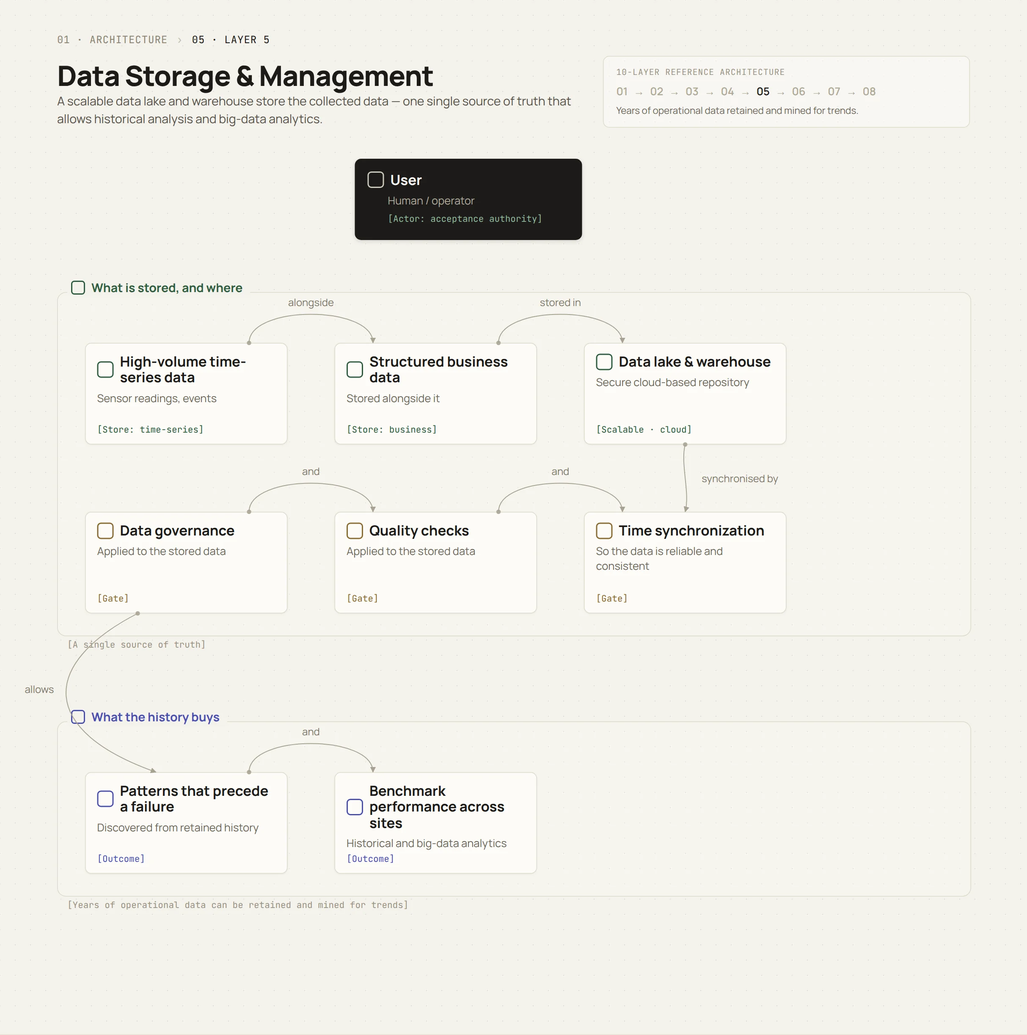
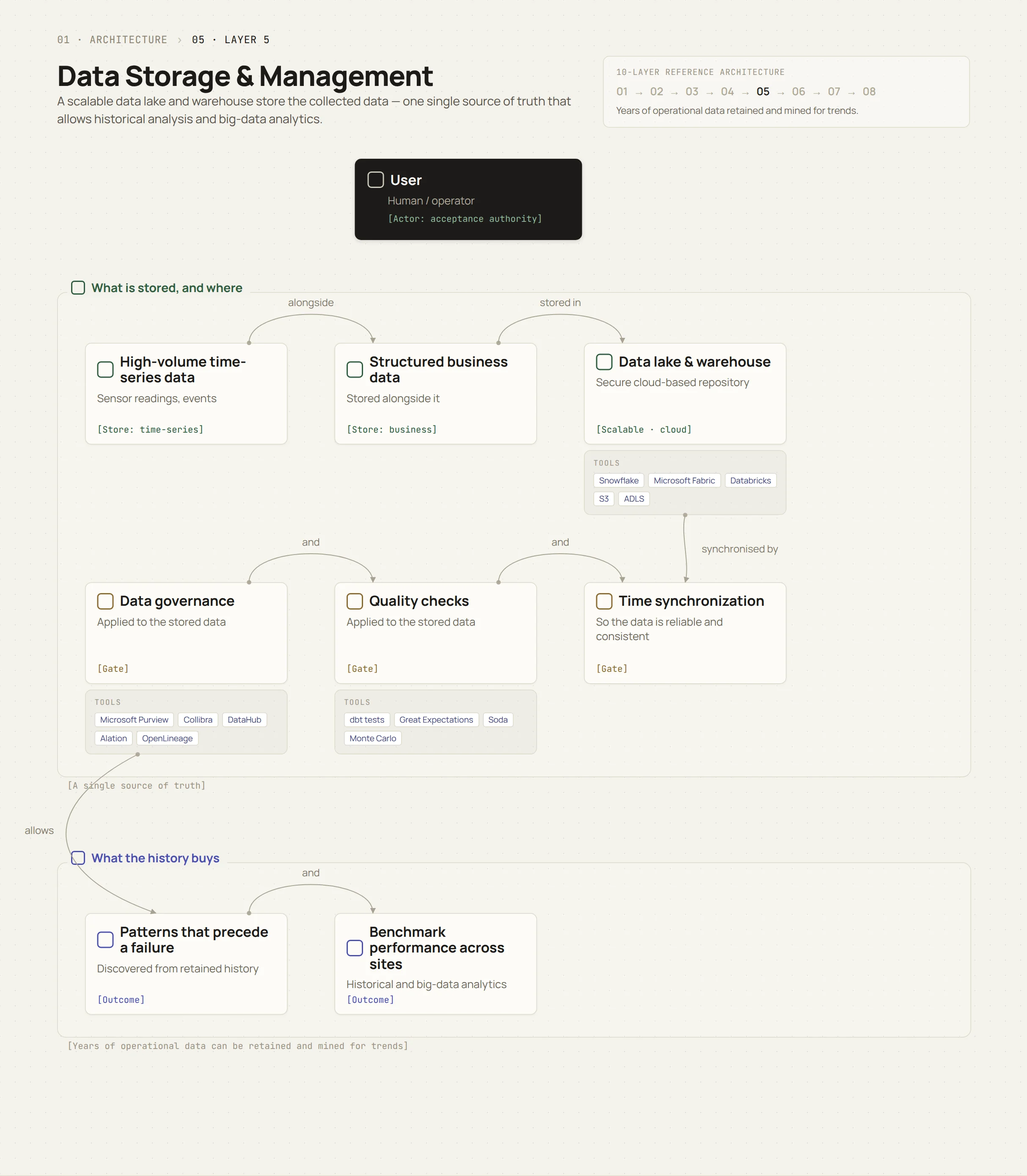
Architecture: name the tools on the ten layers
Fourteen TOOLS strips across layers 1-9, in the component already
approved for the AI Platform drill-downs. Every program name is verbatim
from the ARCHITECTURE OF MEANING master.

Ten of the fourteen are anchored on a term the card and the master row
share verbatim - Sensor, MQTT, OPC UA, SCADA, ingestion, Data lake,
Quality, Dashboards, visualization, Governance, Observability. On the AI
Platform drill-downs only 2 of 40 cards reached that standard, because
those cards run on a different axis; these ten layers are the axis the
master's TOOLS columns were written for.

Layer 10 is left empty: architecture principles, not a capability, and
the master names no program for them. So are the security controls, the
outcome cards and every narrative section.

index.html changes by nine numbers only - the height of the nine figures
that grew. With every height attribute masked, old and new are identical.

Verified: no new connector collision on any layer artboard with the real
fonts loaded, 0 chip overflows, 60/60 responsive checks.

Claude-Session: https://claude.ai/code/session_01H867tEoKbPTPL81FjpucWw

diff --git a/index.html b/index.html
@@ -291,7 +291,7 @@
     
     
     
-  <figure class="dfig"><a href="diagrams/architecture-overview.webp" target="_blank" rel="noopener"><img src="diagrams/architecture-overview.webp" width="2352" height="3404" loading="lazy" decoding="async" alt="A 10-layer — diagram"></a><figcaption>Open full size &#8599;</figcaption></figure><div class="srows"><div class="srow rv has-head"><div class="row-head ordrow" data-ord-head="arch-title"><div class="rnum ord" aria-hidden="true">01</div><h3 class="rtitle">Layer 1 – IoT Edge Devices &amp; Sensors</h3></div><div class="rbody"><p>Industrial-grade sensors, smart meters, and controllers deployed on physical assets form the foundation. These devices continuously capture real-time data (e.g. temperature, vibration, pressure, flow) from equipment and environments, acting as the 'digital eyes and ears' of operations. By instrumenting turbines, pumps, pipelines, trucks and factory machines, we create a rich stream of data at the source that feeds into higher layers.</p></div><figure class="dfig"><a href="diagrams/architecture-01.webp" target="_blank" rel="noopener"><img src="diagrams/architecture-01.webp" width="2427" height="2445" loading="lazy" decoding="async" alt="Layer 1 – IoT Edge Devices — diagram"></a><figcaption>Open full size &#8599;</figcaption></figure></div><div class="srow rv has-head"><div class="row-head ordrow" data-ord-head="arch-title"><div class="rnum ord" aria-hidden="true">02</div><h3 class="rtitle">Layer 2 – Connectivity &amp; Network Infrastructure</h3></div><div class="rbody"><p>A robust communication layer links the edge devices to central systems. We utilize industrial Ethernet on sites, secure wireless links (LTE/5G), and reliable IoT protocols (MQTT, OPC-UA, etc.) to transmit data in real time. This connectivity is designed with built-in encryption and cybersecurity, ensuring data flows securely with minimal latency across widespread facilities.</p></div><figure class="dfig"><a href="diagrams/architecture-02.webp" target="_blank" rel="noopener"><img src="diagrams/architecture-02.webp" width="2427" height="1830" loading="lazy" decoding="async" alt="Layer 2 – Connectivity — diagram"></a><figcaption>Open full size &#8599;</figcaption></figure></div><div class="srow rv has-head"><div class="row-head ordrow" data-ord-head="arch-title"><div class="rnum ord" aria-hidden="true">03</div><h3 class="rtitle">Layer 3 – Edge Computing &amp; Control</h3></div><div class="rbody"><p>At facility sites, edge computing nodes (industrial PCs, PLCs, or gateways) process data locally and interface with control systems. They can filter sensor data, run fast anomaly checks, and execute automatic control logic on the spot. For instance, if a vibration reading spikes beyond a threshold, an edge device can trigger an immediate local alarm or adjustment without waiting for cloud input. This layer augments existing SCADA/DCS controls by adding AI-driven responsiveness on-site, improving safety and reducing latency.</p></div><figure class="dfig"><a href="diagrams/architecture-03.webp" target="_blank" rel="noopener"><img src="diagrams/architecture-03.webp" width="2427" height="2445" loading="lazy" decoding="async" alt="Layer 3 – Edge Computing — diagram"></a><figcaption>Open full size &#8599;</figcaption></figure></div><div class="srow rv has-head"><div class="row-head ordrow" data-ord-head="arch-title"><div class="rnum ord" aria-hidden="true">04</div><h3 class="rtitle">Layer 4 – Data Ingestion &amp; Integration</h3></div><div class="rbody"><p>All field data is funneled into a unified data pipeline. The platform aggregates streams from sensors, edge devices, and existing enterprise systems into a central data repository. We implement high-speed data ingestion with filtering and normalization, so data from disparate sources (legacy databases, IoT feeds, etc.) can be analyzed together. Crucially, we integrate with your existing IT systems – maintenance management, ERP, GIS, and others – via APIs. This means IoT sensor data can be correlated with maintenance logs or weather info, breaking down silos and providing rich context for analysis.</p></div><figure class="dfig"><a href="diagrams/architecture-04.webp" target="_blank" rel="noopener"><img src="diagrams/architecture-04.webp" width="2427" height="2445" loading="lazy" decoding="async" alt="Layer 4 – Data Ingestion — diagram"></a><figcaption>Open full size &#8599;</figcaption></figure></div><div class="srow rv has-head"><div class="row-head ordrow" data-ord-head="arch-title"><div class="rnum ord" aria-hidden="true">05</div><h3 class="rtitle">Layer 5 – Data Storage &amp; Management</h3></div><div class="rbody"><p>A scalable data lake and warehouse store the collected data. High-volume time-series data (sensor readings, events) is stored alongside structured business data in a secure cloud-based repository. This single source of truth allows historical analysis and big-data analytics. We apply data governance, quality checks, and time synchronization to ensure the data is reliable and consistent. Years of operational data can be retained and mined for trends – for example, to discover patterns that precede a failure or to benchmark performance across sites.</p></div><figure class="dfig"><a href="diagrams/architecture-05.webp" target="_blank" rel="noopener"><img src="diagrams/architecture-05.webp" width="2427" height="2445" loading="lazy" decoding="async" alt="Layer 5 – Data Storage — diagram"></a><figcaption>Open full size &#8599;</figcaption></figure></div><div class="srow rv has-head"><div class="row-head ordrow" data-ord-head="arch-title"><div class="rnum ord" aria-hidden="true">06</div><h3 class="rtitle">Layer 6 – Analytics &amp; AI Engine</h3></div><div class="rbody"><p>At the core of the platform is the analytics layer where advanced algorithms turn raw data into actionable insights. We deploy machine learning models, statistical analyses, and AI algorithms to detect anomalies, predict failures, and optimize operations. For example, predictive models analyse sensor trends to indicate developing faults ahead of failure and recommend maintenance before a breakdown occurs; the available lead time varies by asset, instrumentation and failure mechanism. We also use techniques like digital twins (virtual models of assets) to simulate and diagnose complex scenarios. This layer enables the shift from reactive to proactive operations by answering: What is happening? Why? What's likely to happen next?</p></div><figure class="dfig"><a href="diagrams/architecture-06.webp" target="_blank" rel="noopener"><img src="diagrams/architecture-06.webp" width="2427" height="2445" loading="lazy" decoding="async" alt="Layer 6 – Analytics — diagram"></a><figcaption>Open full size &#8599;</figcaption></figure></div><div class="srow rv has-head"><div class="row-head ordrow" data-ord-head="arch-title"><div class="rnum ord" aria-hidden="true">07</div><h3 class="rtitle">Layer 7 – User Interface &amp; Dashboards</h3></div><div class="rbody"><p>All insights are delivered through intuitive dashboards and visualization tools. We provide role-based interfaces for everyone from control room operators to executives. For instance, an operations dashboard might show real-time health scores for assets across all your plants, flagging any equipment in red that needs attention. Managers can see high-level KPIs while engineers can drill into detailed analytics. This ensures information is accessible and actionable at every level of the organization.</p></div><figure class="dfig"><a href="diagrams/architecture-07.webp" target="_blank" rel="noopener"><img src="diagrams/architecture-07.webp" width="2427" height="2046" loading="lazy" decoding="async" alt="Layer 7 – User Interface — diagram"></a><figcaption>Open full size &#8599;</figcaption></figure></div><div class="srow rv has-head"><div class="row-head ordrow" data-ord-head="arch-title"><div class="rnum ord" aria-hidden="true">08</div><h3 class="rtitle">Layer 8 – Automation &amp; Control Feedback</h3></div><div class="rbody"><p>Beyond visual dashboards, the platform can 'close the loop' by proposing optimized control actions and routing them back to equipment through the existing control systems. For example, it can recommend opening a cooling valve or re-routing power load to prevent an overheating condition, presenting the supporting evidence to the operator. High-impact actions require approval by an identified human authority; where a narrow class of low-risk actions is pre-authorised, its boundaries, fail-safes, rollback path and emergency override are agreed in writing beforehand. Human oversight and fail-safes are maintained throughout.</p></div><figure class="dfig"><a href="diagrams/architecture-08.webp" target="_blank" rel="noopener"><img src="diagrams/architecture-08.webp" width="2427" height="1830" loading="lazy" decoding="async" alt="Layer 8 – Automation — diagram"></a><figcaption>Open full size &#8599;</figcaption></figure></div><div class="srow rv has-head"><div class="row-head ordrow" data-ord-head="arch-title"><div class="rnum ord" aria-hidden="true">09</div><h3 class="rtitle">Layer 9 – Security, Governance &amp; Compliance (cross<span class="uh">-</span>cutting plane, Layers 1–8)</h3></div><div class="rbody"><p>Underpinning every layer is a strong focus on cybersecurity and data governance. Industrial infrastructure is mission-critical, so our platform employs robust authentication, encryption, network security monitoring, and anomaly detection to guard against cyber threats. Data governance policies control access to sensitive data, address privacy, and are designed to support the regulatory regime that applies in your sector — electric grid cybersecurity standards or water safety requirements, for example. This plane also covers system health monitoring, so that the behaviour of models and services is observable rather than assumed. SINAIGROUP-AI holds no certification against these standards at this time.</p></div><figure class="dfig"><a href="diagrams/architecture-09.webp" target="_blank" rel="noopener"><img src="diagrams/architecture-09.webp" width="2427" height="2445" loading="lazy" decoding="async" alt="Layer 9 – Security — diagram"></a><figcaption>Open full size &#8599;</figcaption></figure></div><div class="srow rv has-head"><div class="row-head ordrow" data-ord-head="arch-title"><div class="rnum ord" aria-hidden="true">10</div><h3 class="rtitle">Layer 10 – Integrative &amp; Scalable Architecture (cross<span class="uh">-</span>cutting plane, Layers 1–8)</h3></div><div class="rbody"><p>Our multi-layer design is highly integrative and flexible. It can plug into your existing equipment and systems, bridging formerly isolated OT and IT worlds into one cohesive whole. It's built to be cloud-agnostic and modular – running on major cloud providers or on-premises as needed, using containerization and microservices to avoid vendor lock-in. The architecture is designed to scale from a single facility to a nationwide network, and to support multi-cloud deployment for redundancy. In short, these ten blocks are a blueprint for smart infrastructure: eight layers carrying data from connected sensors through to decisions and back to governed action, and two planes that hold across all of them.</p></div><figure class="dfig"><a href="diagrams/architecture-10.webp" target="_blank" rel="noopener"><img src="diagrams/architecture-10.webp" width="2427" height="1830" loading="lazy" decoding="async" alt="Layer 10 – Integrative — diagram"></a><figcaption>Open full size &#8599;</figcaption></figure></div><div class="srow rv is-summary has-head"><div class="row-head ordrow" data-ord-head="arch-title"><div class="rnum ord" aria-hidden="true"></div><h3 class="rtitle">Key Platform Benefits</h3></div><div class="rbody"><p>This layered structure is what makes the architecture modular, interoperable and extensible. It is designed to integrate with legacy and modern systems alike, giving one environment for data and control. It is cloud-agnostic — targeting AWS, Azure, Google Cloud or hybrid on-premises — using containerised microservices for portability and to avoid lock-in. It is designed to scale from a pilot to an enterprise-wide rollout, and to support multi-cloud deployment for failover. Because it is built on open standards, it can be extended as technologies and threats change. This ten-block method is the framework our team applies; where team members have applied comparable methods, those engagements are described, and attributed, in the Team section.</p></div><figure class="dfig"><a href="diagrams/architecture-14.webp" target="_blank" rel="noopener"><img src="diagrams/architecture-14.webp" width="2427" height="2445" loading="lazy" decoding="async" alt="Key Platform Benefits — diagram"></a><figcaption>Open full size &#8599;</figcaption></figure></div></div></div>
+  <figure class="dfig"><a href="diagrams/architecture-overview.webp" target="_blank" rel="noopener"><img src="diagrams/architecture-overview.webp" width="2352" height="3404" loading="lazy" decoding="async" alt="A 10-layer — diagram"></a><figcaption>Open full size &#8599;</figcaption></figure><div class="srows"><div class="srow rv has-head"><div class="row-head ordrow" data-ord-head="arch-title"><div class="rnum ord" aria-hidden="true">01</div><h3 class="rtitle">Layer 1 – IoT Edge Devices &amp; Sensors</h3></div><div class="rbody"><p>Industrial-grade sensors, smart meters, and controllers deployed on physical assets form the foundation. These devices continuously capture real-time data (e.g. temperature, vibration, pressure, flow) from equipment and environments, acting as the 'digital eyes and ears' of operations. By instrumenting turbines, pumps, pipelines, trucks and factory machines, we create a rich stream of data at the source that feeds into higher layers.</p></div><figure class="dfig"><a href="diagrams/architecture-01.webp" target="_blank" rel="noopener"><img src="diagrams/architecture-01.webp" width="2427" height="2568" loading="lazy" decoding="async" alt="Layer 1 – IoT Edge Devices — diagram"></a><figcaption>Open full size &#8599;</figcaption></figure></div><div class="srow rv has-head"><div class="row-head ordrow" data-ord-head="arch-title"><div class="rnum ord" aria-hidden="true">02</div><h3 class="rtitle">Layer 2 – Connectivity &amp; Network Infrastructure</h3></div><div class="rbody"><p>A robust communication layer links the edge devices to central systems. We utilize industrial Ethernet on sites, secure wireless links (LTE/5G), and reliable IoT protocols (MQTT, OPC-UA, etc.) to transmit data in real time. This connectivity is designed with built-in encryption and cybersecurity, ensuring data flows securely with minimal latency across widespread facilities.</p></div><figure class="dfig"><a href="diagrams/architecture-02.webp" target="_blank" rel="noopener"><img src="diagrams/architecture-02.webp" width="2427" height="1953" loading="lazy" decoding="async" alt="Layer 2 – Connectivity — diagram"></a><figcaption>Open full size &#8599;</figcaption></figure></div><div class="srow rv has-head"><div class="row-head ordrow" data-ord-head="arch-title"><div class="rnum ord" aria-hidden="true">03</div><h3 class="rtitle">Layer 3 – Edge Computing &amp; Control</h3></div><div class="rbody"><p>At facility sites, edge computing nodes (industrial PCs, PLCs, or gateways) process data locally and interface with control systems. They can filter sensor data, run fast anomaly checks, and execute automatic control logic on the spot. For instance, if a vibration reading spikes beyond a threshold, an edge device can trigger an immediate local alarm or adjustment without waiting for cloud input. This layer augments existing SCADA/DCS controls by adding AI-driven responsiveness on-site, improving safety and reducing latency.</p></div><figure class="dfig"><a href="diagrams/architecture-03.webp" target="_blank" rel="noopener"><img src="diagrams/architecture-03.webp" width="2427" height="2568" loading="lazy" decoding="async" alt="Layer 3 – Edge Computing — diagram"></a><figcaption>Open full size &#8599;</figcaption></figure></div><div class="srow rv has-head"><div class="row-head ordrow" data-ord-head="arch-title"><div class="rnum ord" aria-hidden="true">04</div><h3 class="rtitle">Layer 4 – Data Ingestion &amp; Integration</h3></div><div class="rbody"><p>All field data is funneled into a unified data pipeline. The platform aggregates streams from sensors, edge devices, and existing enterprise systems into a central data repository. We implement high-speed data ingestion with filtering and normalization, so data from disparate sources (legacy databases, IoT feeds, etc.) can be analyzed together. Crucially, we integrate with your existing IT systems – maintenance management, ERP, GIS, and others – via APIs. This means IoT sensor data can be correlated with maintenance logs or weather info, breaking down silos and providing rich context for analysis.</p></div><figure class="dfig"><a href="diagrams/architecture-04.webp" target="_blank" rel="noopener"><img src="diagrams/architecture-04.webp" width="2427" height="2612" loading="lazy" decoding="async" alt="Layer 4 – Data Ingestion — diagram"></a><figcaption>Open full size &#8599;</figcaption></figure></div><div class="srow rv has-head"><div class="row-head ordrow" data-ord-head="arch-title"><div class="rnum ord" aria-hidden="true">05</div><h3 class="rtitle">Layer 5 – Data Storage &amp; Management</h3></div><div class="rbody"><p>A scalable data lake and warehouse store the collected data. High-volume time-series data (sensor readings, events) is stored alongside structured business data in a secure cloud-based repository. This single source of truth allows historical analysis and big-data analytics. We apply data governance, quality checks, and time synchronization to ensure the data is reliable and consistent. Years of operational data can be retained and mined for trends – for example, to discover patterns that precede a failure or to benchmark performance across sites.</p></div><figure class="dfig"><a href="diagrams/architecture-05.webp" target="_blank" rel="noopener"><img src="diagrams/architecture-05.webp" width="2427" height="2778" loading="lazy" decoding="async" alt="Layer 5 – Data Storage — diagram"></a><figcaption>Open full size &#8599;</figcaption></figure></div><div class="srow rv has-head"><div class="row-head ordrow" data-ord-head="arch-title"><div class="rnum ord" aria-hidden="true">06</div><h3 class="rtitle">Layer 6 – Analytics &amp; AI Engine</h3></div><div class="rbody"><p>At the core of the platform is the analytics layer where advanced algorithms turn raw data into actionable insights. We deploy machine learning models, statistical analyses, and AI algorithms to detect anomalies, predict failures, and optimize operations. For example, predictive models analyse sensor trends to indicate developing faults ahead of failure and recommend maintenance before a breakdown occurs; the available lead time varies by asset, instrumentation and failure mechanism. We also use techniques like digital twins (virtual models of assets) to simulate and diagnose complex scenarios. This layer enables the shift from reactive to proactive operations by answering: What is happening? Why? What's likely to happen next?</p></div><figure class="dfig"><a href="diagrams/architecture-06.webp" target="_blank" rel="noopener"><img src="diagrams/architecture-06.webp" width="2427" height="2612" loading="lazy" decoding="async" alt="Layer 6 – Analytics — diagram"></a><figcaption>Open full size &#8599;</figcaption></figure></div><div class="srow rv has-head"><div class="row-head ordrow" data-ord-head="arch-title"><div class="rnum ord" aria-hidden="true">07</div><h3 class="rtitle">Layer 7 – User Interface &amp; Dashboards</h3></div><div class="rbody"><p>All insights are delivered through intuitive dashboards and visualization tools. We provide role-based interfaces for everyone from control room operators to executives. For instance, an operations dashboard might show real-time health scores for assets across all your plants, flagging any equipment in red that needs attention. Managers can see high-level KPIs while engineers can drill into detailed analytics. This ensures information is accessible and actionable at every level of the organization.</p></div><figure class="dfig"><a href="diagrams/architecture-07.webp" target="_blank" rel="noopener"><img src="diagrams/architecture-07.webp" width="2427" height="2213" loading="lazy" decoding="async" alt="Layer 7 – User Interface — diagram"></a><figcaption>Open full size &#8599;</figcaption></figure></div><div class="srow rv has-head"><div class="row-head ordrow" data-ord-head="arch-title"><div class="rnum ord" aria-hidden="true">08</div><h3 class="rtitle">Layer 8 – Automation &amp; Control Feedback</h3></div><div class="rbody"><p>Beyond visual dashboards, the platform can 'close the loop' by proposing optimized control actions and routing them back to equipment through the existing control systems. For example, it can recommend opening a cooling valve or re-routing power load to prevent an overheating condition, presenting the supporting evidence to the operator. High-impact actions require approval by an identified human authority; where a narrow class of low-risk actions is pre-authorised, its boundaries, fail-safes, rollback path and emergency override are agreed in writing beforehand. Human oversight and fail-safes are maintained throughout.</p></div><figure class="dfig"><a href="diagrams/architecture-08.webp" target="_blank" rel="noopener"><img src="diagrams/architecture-08.webp" width="2427" height="1997" loading="lazy" decoding="async" alt="Layer 8 – Automation — diagram"></a><figcaption>Open full size &#8599;</figcaption></figure></div><div class="srow rv has-head"><div class="row-head ordrow" data-ord-head="arch-title"><div class="rnum ord" aria-hidden="true">09</div><h3 class="rtitle">Layer 9 – Security, Governance &amp; Compliance (cross<span class="uh">-</span>cutting plane, Layers 1–8)</h3></div><div class="rbody"><p>Underpinning every layer is a strong focus on cybersecurity and data governance. Industrial infrastructure is mission-critical, so our platform employs robust authentication, encryption, network security monitoring, and anomaly detection to guard against cyber threats. Data governance policies control access to sensitive data, address privacy, and are designed to support the regulatory regime that applies in your sector — electric grid cybersecurity standards or water safety requirements, for example. This plane also covers system health monitoring, so that the behaviour of models and services is observable rather than assumed. SINAIGROUP-AI holds no certification against these standards at this time.</p></div><figure class="dfig"><a href="diagrams/architecture-09.webp" target="_blank" rel="noopener"><img src="diagrams/architecture-09.webp" width="2427" height="2612" loading="lazy" decoding="async" alt="Layer 9 – Security — diagram"></a><figcaption>Open full size &#8599;</figcaption></figure></div><div class="srow rv has-head"><div class="row-head ordrow" data-ord-head="arch-title"><div class="rnum ord" aria-hidden="true">10</div><h3 class="rtitle">Layer 10 – Integrative &amp; Scalable Architecture (cross<span class="uh">-</span>cutting plane, Layers 1–8)</h3></div><div class="rbody"><p>Our multi-layer design is highly integrative and flexible. It can plug into your existing equipment and systems, bridging formerly isolated OT and IT worlds into one cohesive whole. It's built to be cloud-agnostic and modular – running on major cloud providers or on-premises as needed, using containerization and microservices to avoid vendor lock-in. The architecture is designed to scale from a single facility to a nationwide network, and to support multi-cloud deployment for redundancy. In short, these ten blocks are a blueprint for smart infrastructure: eight layers carrying data from connected sensors through to decisions and back to governed action, and two planes that hold across all of them.</p></div><figure class="dfig"><a href="diagrams/architecture-10.webp" target="_blank" rel="noopener"><img src="diagrams/architecture-10.webp" width="2427" height="1830" loading="lazy" decoding="async" alt="Layer 10 – Integrative — diagram"></a><figcaption>Open full size &#8599;</figcaption></figure></div><div class="srow rv is-summary has-head"><div class="row-head ordrow" data-ord-head="arch-title"><div class="rnum ord" aria-hidden="true"></div><h3 class="rtitle">Key Platform Benefits</h3></div><div class="rbody"><p>This layered structure is what makes the architecture modular, interoperable and extensible. It is designed to integrate with legacy and modern systems alike, giving one environment for data and control. It is cloud-agnostic — targeting AWS, Azure, Google Cloud or hybrid on-premises — using containerised microservices for portability and to avoid lock-in. It is designed to scale from a pilot to an enterprise-wide rollout, and to support multi-cloud deployment for failover. Because it is built on open standards, it can be extended as technologies and threats change. This ten-block method is the framework our team applies; where team members have applied comparable methods, those engagements are described, and attributed, in the Team section.</p></div><figure class="dfig"><a href="diagrams/architecture-14.webp" target="_blank" rel="noopener"><img src="diagrams/architecture-14.webp" width="2427" height="2445" loading="lazy" decoding="async" alt="Key Platform Benefits — diagram"></a><figcaption>Open full size &#8599;</figcaption></figure></div></div></div>
 <figure class="dfig"><a href="diagrams/architecture-00.webp" target="_blank" rel="noopener"><img src="diagrams/architecture-00.webp" width="2427" height="2844" loading="lazy" decoding="async" alt="A 10-layer — diagram"></a><figcaption>Open full size &#8599;</figcaption></figure></div></section>
 
 <section class="section"><div class="wrap">
